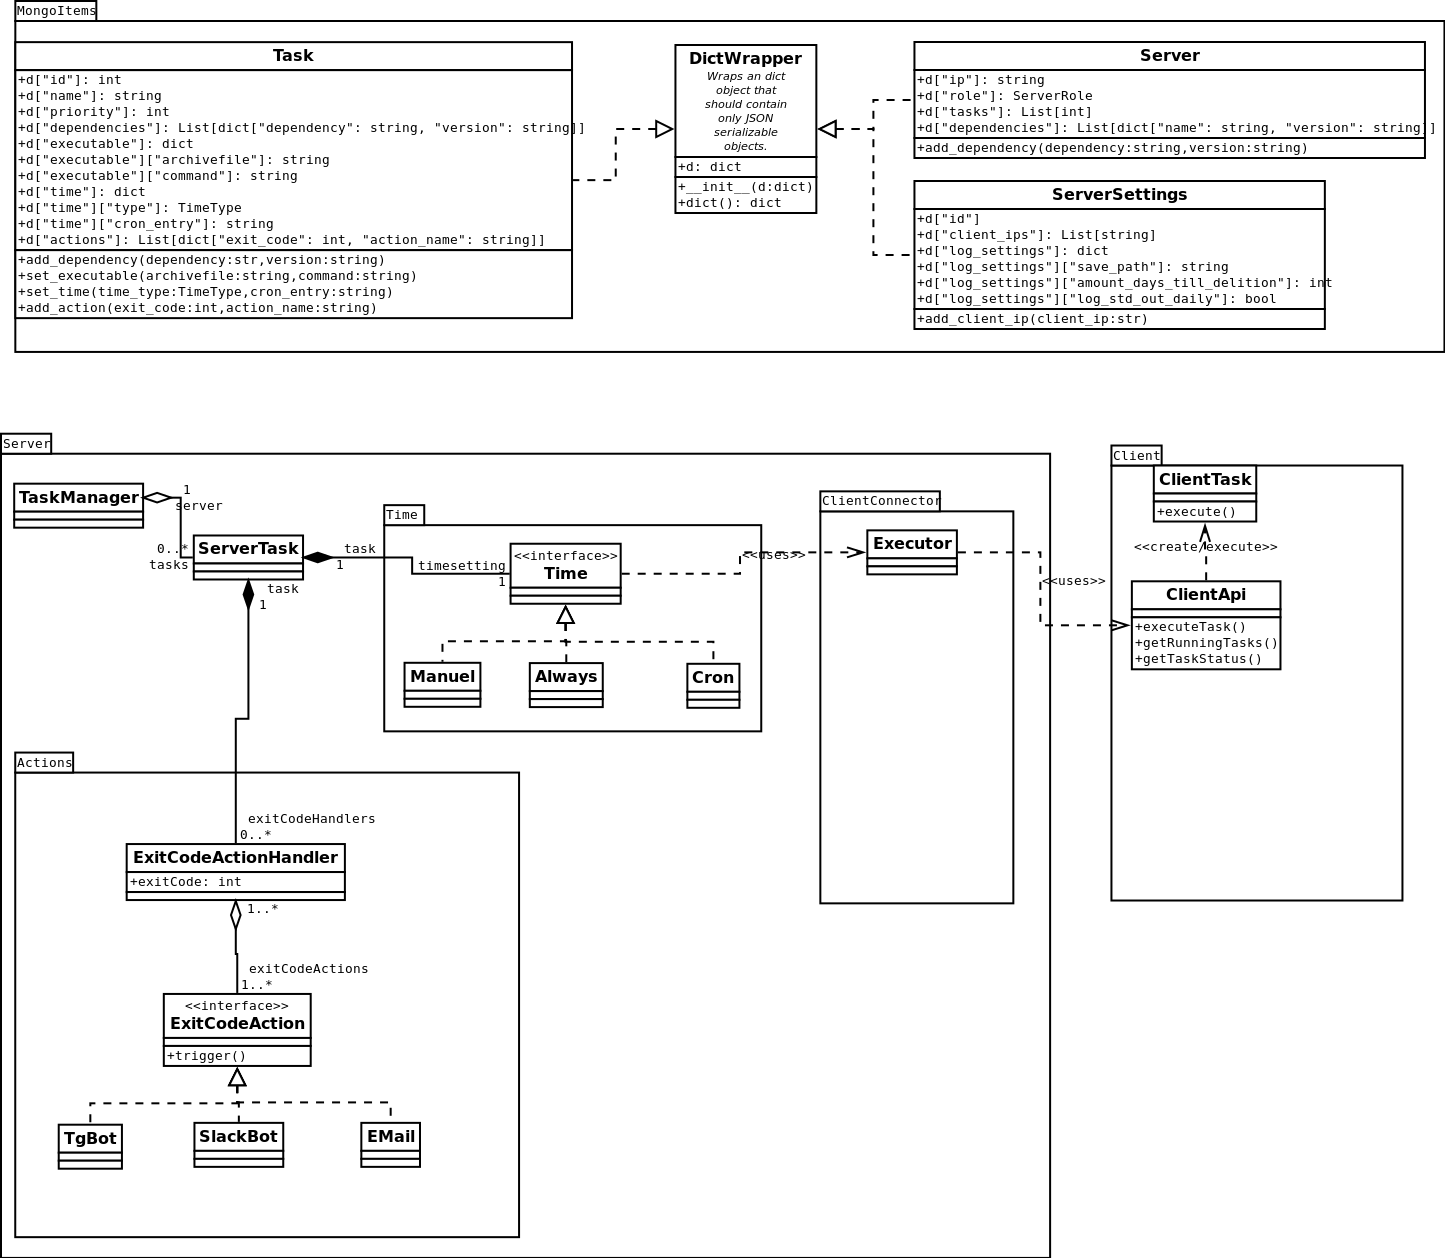
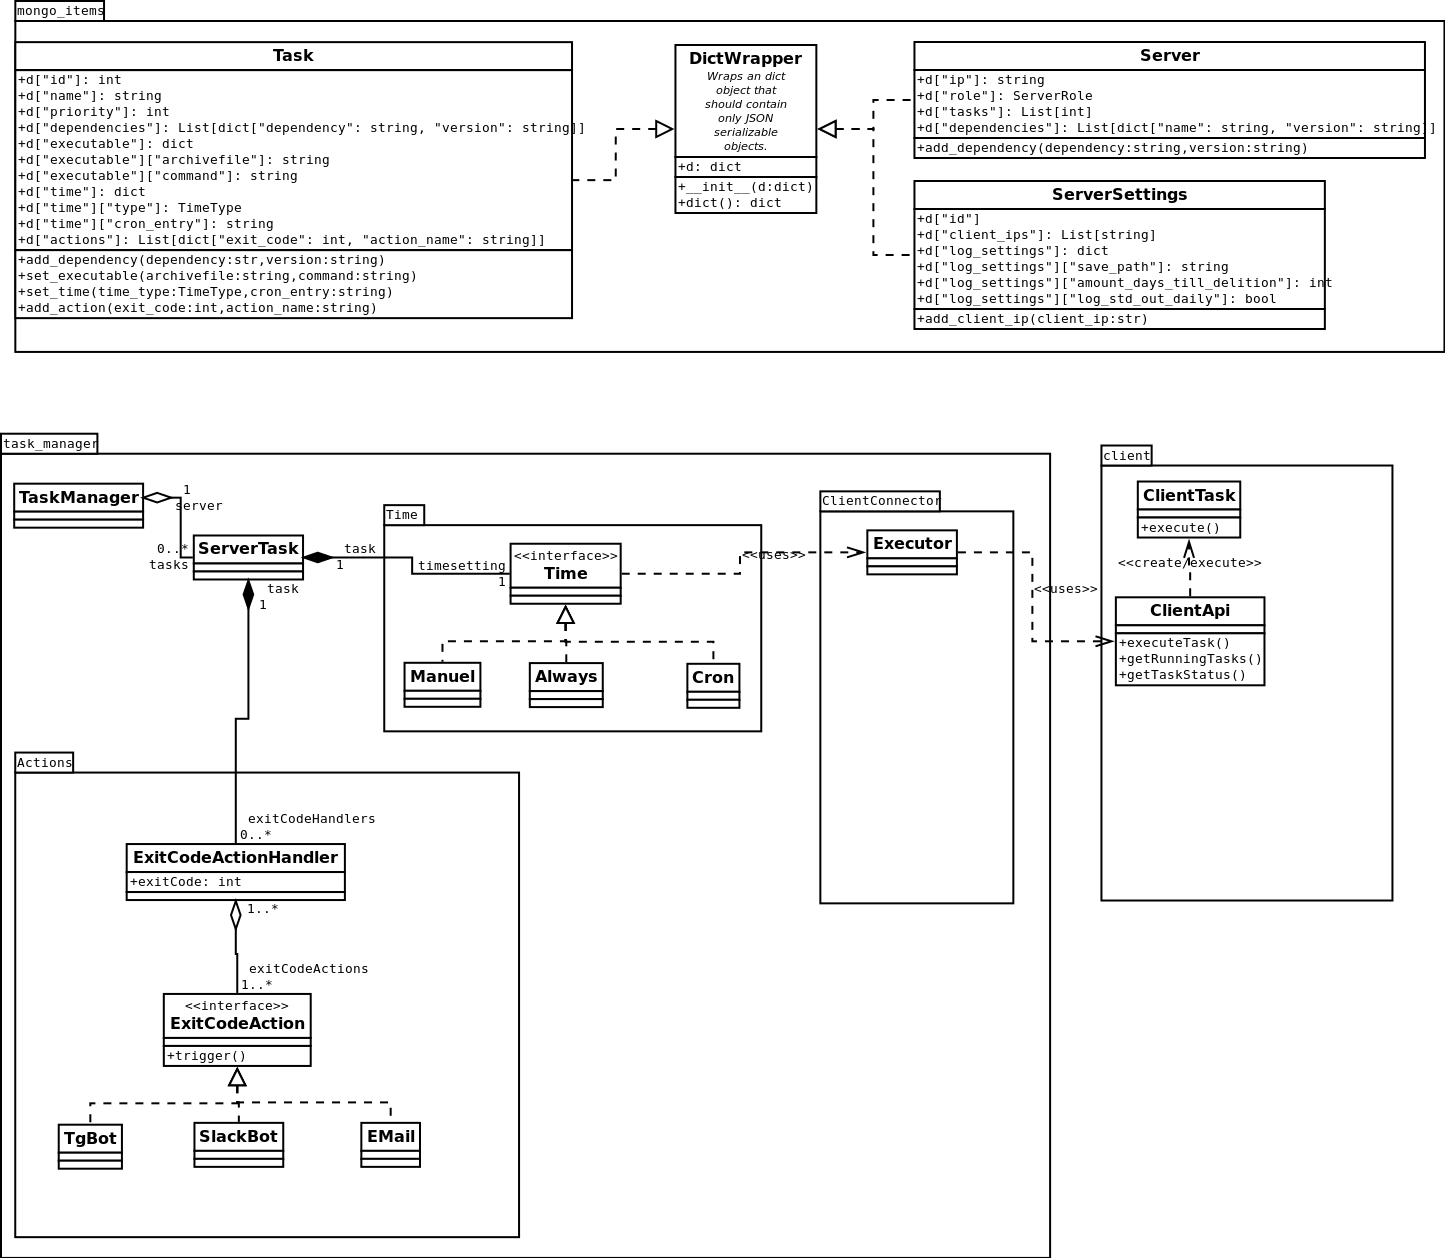
renamed file and changed ServerRole enum

Changed region(s): [[0.7163, 0.341, 0.9031, 0.713], [0.0, 0.341, 0.0623, 0.372]]

diff --git a/src/Webserver/mongo_items.py b/src/Webserver/mongo_items.py
@@ -12,9 +12,9 @@ class TimeType:
     :always: A Task will be restarted after exiting
     :cron: A Task will be started with a crontab entry
     """
-    manual = 1
-    always = 2
-    cron = 3
+    manual = 0
+    always = 1
+    cron = 2
 
 
 class ServerRole:
@@ -23,11 +23,11 @@ class ServerRole:
 
     It doesn't inherit from Enum, because than it isn't JSON serializable
 
-    :task_manager: The Task Manager distributes the Tasks to the clients
-    :client: The client executes the tasks
+    :master: The master distributes the Tasks to the slaves
+    :slave: The slave executes the tasks
     """
-    task_manager = 1
-    client = 2
+    master = 0
+    slave = 1
 
 
 class DictWrapper(object):
@@ -203,7 +203,7 @@ class Server(DictWrapper):
         if "role" in d.keys():
             role = ServerRole(d["role"])
         else:
-            role = ServerRole.client
+            role = ServerRole.slave
         # tasks
         tasks = []
         if "tasks" in d.keys():
@@ -297,7 +297,7 @@ class ServerSettings(DictWrapper):
         return str(self.dict())
 
 
-def print_tasks(tasks:List[Task]):
+def print_tasks(tasks: List[Task]):
     for task in tasks:
         print(task)
 
@@ -307,7 +307,6 @@ class Main:
         # main
         # load db
         tasks_j = json.loads('[{"id": 1, "name": "task1", "dependencies":[{"dependency": "linux"},{"dependency": "python", "version": "3.6.8"}]}, {"id": 2, "name": "task2"}]')
-        print(type(tasks_j[0]))
 
         # initialize objects
         tasks = []
